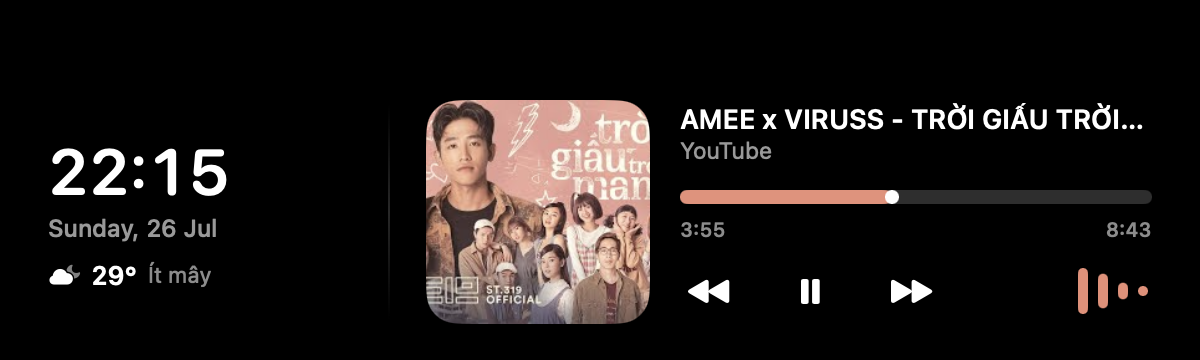
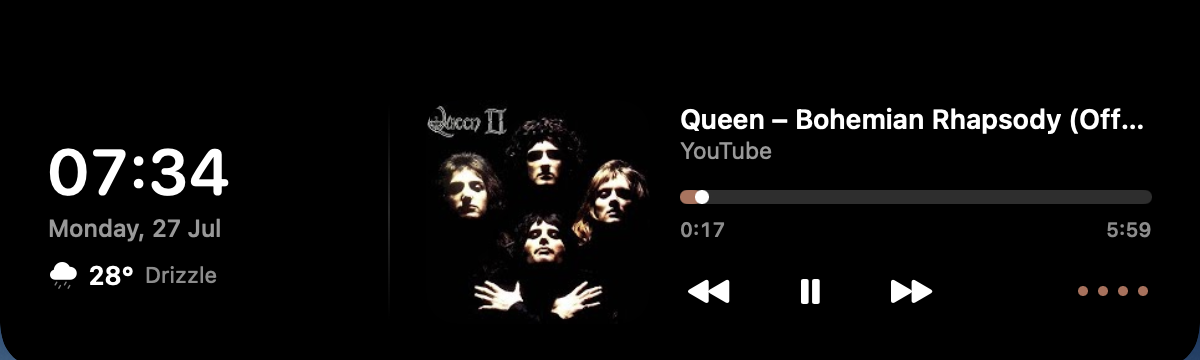
Translate app UI strings and README to English
Menu bar items, weather conditions, shelf context menu, empty states,
and the Info.plist permission descriptions were all Vietnamese; the
app now reads in English throughout. README rewritten to match.

diff --git a/Sources/NotchMVP/NotchRootView.swift b/Sources/NotchMVP/NotchRootView.swift
@@ -150,7 +150,7 @@ struct NotchRootView: View {
             RoundedRectangle(cornerRadius: 14, style: .continuous)
                 .strokeBorder(Color.white.opacity(0.55), style: StrokeStyle(lineWidth: 1.5, dash: [5, 4]))
                 .overlay(
-                    Text(state.shelfItems.isEmpty ? "Thả file để lưu tạm" : "Thêm vào shelf")
+                    Text(state.shelfItems.isEmpty ? "Drop files to hold onto" : "Add to shelf")
                         .font(.system(size: 12, weight: .medium))
                         .foregroundStyle(.white.opacity(0.85))
                 )
@@ -290,9 +290,9 @@ struct BlockerNotice: View {
     private var message: String {
         switch blocker {
         case .browserJavaScriptOff(let app):
-            return "Bật \(app) → View → Developer → Allow JavaScript from Apple Events để dùng nút điều khiển"
+            return "Enable \(app) → View → Developer → Allow JavaScript from Apple Events to use the controls"
         case .automationDenied(let app):
-            return "Cấp quyền điều khiển \(app) trong System Settings → Privacy & Security → Automation"
+            return "Grant \(app) permission in System Settings → Privacy & Security → Automation"
         }
     }
 
@@ -557,24 +557,24 @@ struct ShelfChip: View {
         .onDrag { NSItemProvider(contentsOf: item.url) ?? NSItemProvider() }
         .onTapGesture { PreviewWindow.shared.show(item.url) }
         .contextMenu {
-            Button("Xem trước") { PreviewWindow.shared.show(item.url) }
-            Button("Hiện trong Finder") {
+            Button("Quick Look") { PreviewWindow.shared.show(item.url) }
+            Button("Show in Finder") {
                 NSWorkspace.shared.activateFileViewerSelecting([item.url])
             }
             Divider()
-            Button("Sao chép file") {
+            Button("Copy File") {
                 NSPasteboard.general.clearContents()
                 NSPasteboard.general.writeObjects([item.url as NSURL])
             }
-            Button("Sao chép đường dẫn") {
+            Button("Copy Path") {
                 NSPasteboard.general.clearContents()
                 NSPasteboard.general.setString(item.url.path, forType: .string)
             }
             Divider()
-            Button("Bỏ khỏi shelf") { onRemove() }
+            Button("Remove from Shelf") { onRemove() }
         }
         .handCursor()
-        .help("\(item.url.path)\n\nBấm để xem trước · kéo ra để dùng")
+        .help("\(item.url.path)\n\nClick to preview · drag out to use")
     }
 }
 
@@ -606,7 +606,7 @@ private struct ClearShelfButton: View {
         .handCursor()
         .onHover { hovering = $0 }
         .animation(.smooth(duration: 0.18), value: hovering)
-        .help("Xoá hết")
+        .help("Clear all")
     }
 }
 
@@ -627,7 +627,7 @@ private struct ChipRemoveButton: View {
         .handCursor()
         .onHover { hovering = $0 }
         .animation(.smooth(duration: 0.15), value: hovering)
-        .help("Bỏ khỏi shelf")
+        .help("Remove from shelf")
     }
 }
 
@@ -744,7 +744,7 @@ struct MediaWidget: View {
 
             VStack(alignment: .leading, spacing: 9) {
                 if np.title.isEmpty {
-                    Text("Không có nhạc đang phát")
+                    Text("Nothing playing")
                         .font(.system(size: 13))
                         .foregroundStyle(.white.opacity(0.5))
                         .frame(maxWidth: .infinity, alignment: .leading)

diff --git a/Sources/NotchMVP/main.swift b/Sources/NotchMVP/main.swift
@@ -29,17 +29,17 @@ final class AppDelegate: NSObject, NSApplicationDelegate, NSMenuDelegate {
         menu.addItem(NSMenuItem(title: "NotchMVP", action: nil, keyEquivalent: ""))
         menu.addItem(.separator())
 
-        let login = NSMenuItem(title: "Mở cùng macOS",
+        let login = NSMenuItem(title: "Open at Login",
                                action: #selector(toggleLaunchAtLogin),
                                keyEquivalent: "")
         menu.addItem(login)
         launchAtLoginItem = login
 
-        menu.addItem(NSMenuItem(title: "Mở file cài đặt", action: #selector(openSettings), keyEquivalent: ","))
-        menu.addItem(NSMenuItem(title: "Tải lại cài đặt", action: #selector(reloadSettings), keyEquivalent: "l"))
+        menu.addItem(NSMenuItem(title: "Open Settings File", action: #selector(openSettings), keyEquivalent: ","))
+        menu.addItem(NSMenuItem(title: "Reload Settings", action: #selector(reloadSettings), keyEquivalent: "l"))
         menu.addItem(.separator())
-        menu.addItem(NSMenuItem(title: "Đặt lại vị trí notch", action: #selector(reposition), keyEquivalent: "r"))
-        menu.addItem(NSMenuItem(title: "Thoát", action: #selector(quit), keyEquivalent: "q"))
+        menu.addItem(NSMenuItem(title: "Reset Notch Position", action: #selector(reposition), keyEquivalent: "r"))
+        menu.addItem(NSMenuItem(title: "Quit", action: #selector(quit), keyEquivalent: "q"))
         for i in menu.items { i.target = self }
         item.menu = menu
         statusItem = item

diff --git a/Sources/NotchMVP/Shelf.swift b/Sources/NotchMVP/Shelf.swift
@@ -45,7 +45,7 @@ enum ShelfScratch {
             .prefix(28)
             .replacingOccurrences(of: "/", with: "-")
             .replacingOccurrences(of: ":", with: "-")
-        let name = safe.isEmpty ? "Ghi chú \(stamp)" : "\(safe).txt"
+        let name = safe.isEmpty ? "Note \(stamp)" : "\(safe).txt"
         let url = folder.appendingPathComponent(name.hasSuffix(".txt") ? name : name + ".txt")
         do {
             try trimmed.write(to: url, atomically: true, encoding: .utf8)
@@ -64,7 +64,7 @@ enum ShelfScratch {
             notchDebug("shelf: dropped image wasn't decodable")
             return nil
         }
-        let url = folder.appendingPathComponent("Ảnh \(stamp).png")
+        let url = folder.appendingPathComponent("Image \(stamp).png")
         do {
             try png.write(to: url)
             return url
@@ -76,7 +76,7 @@ enum ShelfScratch {
 }
 
 // Deliberately in memory only: this is a temporary staging area, and quietly
-// keeping a list of the user's files across launches isn't what "tạm" means.
+// keeping a list of the user's files across launches isn't what "temporary" means.
 extension NotchState {
     func addToShelf(_ urls: [URL]) {
         let known = Set(shelfItems.map(\.url))

diff --git a/Sources/NotchMVP/Weather.swift b/Sources/NotchMVP/Weather.swift
@@ -24,17 +24,17 @@ struct WeatherNow: Equatable {
 
     var summary: String {
         switch code {
-        case 0:         return "Trời quang"
-        case 1, 2:      return "Ít mây"
-        case 3:         return "Nhiều mây"
-        case 45, 48:    return "Sương mù"
-        case 51...57:   return "Mưa phùn"
-        case 61...65:   return "Mưa"
-        case 66, 67:    return "Mưa băng"
-        case 71...77:   return "Tuyết"
-        case 80...82:   return "Mưa rào"
-        case 85, 86:    return "Tuyết rơi"
-        case 95...99:   return "Dông"
+        case 0:         return "Clear"
+        case 1, 2:      return "Partly cloudy"
+        case 3:         return "Cloudy"
+        case 45, 48:    return "Foggy"
+        case 51...57:   return "Drizzle"
+        case 61...65:   return "Rain"
+        case 66, 67:    return "Freezing rain"
+        case 71...77:   return "Snow"
+        case 80...82:   return "Rain showers"
+        case 85, 86:    return "Snow showers"
+        case 95...99:   return "Thunderstorm"
         default:        return ""
         }
     }

diff --git a/Sources/NotchMVP/MediaController.swift b/Sources/NotchMVP/MediaController.swift
@@ -1031,7 +1031,7 @@ final class MediaController: ObservableObject {
             // -1743 == user hasn't granted Automation permission yet.
             if let code = error[NSAppleScript.errorNumber] as? Int, code == -1743 {
                 notchDebug("automation denied (-1743)")
-                let app = nowPlaying.app.isEmpty ? "trình phát" : nowPlaying.app
+                let app = nowPlaying.app.isEmpty ? "the player" : nowPlaying.app
                 DispatchQueue.main.async { self.blocker = .automationDenied(app) }
             }
             return nil

diff --git a/README.md b/README.md
@@ -1,43 +1,43 @@
 # NotchMVP
 
-Một tiện ích nhỏ cho macOS, biến notch (tai thỏ) trên MacBook thành nơi hiển thị nhạc đang phát, đồng hồ/thời tiết và một "kệ" để tạm file — lấy cảm hứng từ [NotchNook](https://github.com/aleksey-nekrasov/NotchNook).
+A small macOS utility that turns your MacBook's notch into a home for now-playing media, a clock/weather widget, and a temporary shelf for files — inspired by [NotchNook](https://github.com/aleksey-nekrasov/NotchNook).
 
-Ứng dụng chạy nền, không hiện icon trên Dock, chỉ có một biểu tượng `◗` nhỏ trên thanh menu bar.
+The app runs in the background with no Dock icon, just a small `◗` icon in the menu bar.
 
-![Bảng điều khiển mở rộng](docs/panel.png)
+![Expanded panel](docs/panel.png)
 
-Khi có nhạc mới phát hoặc đổi bài, một dải nhỏ hiện ra hai bên notch trong vài giây:
+When new music starts or the track changes, a small pill appears on either side of the notch for a few seconds:
 
-![Dạng mini](docs/mini.png)
+![Mini pill](docs/mini.png)
 
-## Tính năng
+## Features
 
-- **Điều khiển nhạc** — nhận diện và điều khiển phát/dừng/chuyển bài từ Apple Music, Spotify, VLC, QuickTime và các trang nghe nhạc/video phổ biến đang mở trong trình duyệt (YouTube, SoundCloud, v.v.)
-- **Dải mini** — khi nhạc bắt đầu phát hoặc đổi bài, ảnh bìa và waveform hiện ra ngay hai bên notch, tự ẩn sau vài giây
-- **Bảng mở rộng** — di chuột vào notch để xem đồng hồ, thời tiết hiện tại, ảnh bìa lớn, tên bài hát, thanh tua và nút điều khiển; click vào ảnh bìa để mở tab/app đang phát
-- **Waveform phản hồi âm thanh thực** — không phải hiệu ứng giả, lấy trực tiếp từ tín hiệu đang phát
-- **Kệ file (Shelf)** — kéo file, ảnh hoặc đoạn văn bản thả vào notch để tạm giữ; kéo ra để dùng lại, click để xem trước (Quick Look), chuột phải để có thêm tùy chọn
-- **Phím tắt toàn cục** — `⌥ Option + Space` để bật/tắt bảng mở rộng bất cứ đâu
-- **Khởi động cùng macOS** — bật/tắt ngay trong menu `◗`
-- **Cấu hình qua file JSON** — mọi con số (thời gian chờ, kích thước, phím tắt...) đều chỉnh được mà không cần build lại
+- **Media controls** — detects and controls play/pause/skip from Apple Music, Spotify, VLC, QuickTime, and popular music/video sites open in your browser (YouTube, SoundCloud, etc.)
+- **Mini pill** — cover art and a waveform appear right beside the notch when playback starts or the track changes, then fade away on their own
+- **Expanded panel** — hover the notch to see the clock, current weather, full-size artwork, track title, scrub bar, and transport controls; click the artwork to jump to the tab/app that's playing
+- **Real audio-reactive waveform** — not a canned animation, it's driven by the actual playing audio
+- **File shelf** — drag files, images, or text snippets onto the notch to hold onto them; drag them back out to use, click for a Quick Look preview, right-click for more options
+- **Global hotkey** — `⌥ Option + Space` toggles the expanded panel from anywhere
+- **Launch at login** — toggle right from the `◗` menu
+- **JSON-based configuration** — every tunable (timeouts, sizes, hotkey) is editable without rebuilding
 
-## Cài đặt
+## Installation
 
-### Cách 1 — Tải bản build sẵn (khuyên dùng)
+### Option 1 — Download a prebuilt release (recommended)
 
-1. Vào mục [Releases](../../releases) của repo này, tải file `NotchMVP.zip` mới nhất
-2. Giải nén, kéo `NotchMVP.app` vào thư mục **Applications**
-3. Vì app chỉ được ký ad-hoc (không phải tài khoản Apple Developer trả phí), lần đầu mở macOS sẽ chặn. Cách mở:
-   - Chuột phải vào `NotchMVP.app` → **Open** → xác nhận **Open** lần nữa, **hoặc**
-   - Vào **System Settings → Privacy & Security**, cuộn xuống thấy dòng cảnh báo về NotchMVP, bấm **Open Anyway**
-4. Lần đầu chạy, macOS sẽ hỏi quyền:
-   - **Automation** (điều khiển Music/Spotify/trình duyệt) — bắt buộc để điều khiển nhạc
-   - **Location** (vị trí) — chỉ để hiển thị thời tiết, có thể từ chối nếu không cần
-   - Nếu muốn điều khiển nhạc từ Chrome/tab trình duyệt: mở Chrome → **View → Developer → Allow JavaScript from Apple Events**
+1. Go to this repo's [Releases](../../releases) page and download the latest `NotchMVP.zip`
+2. Unzip it and drag `NotchMVP.app` into your **Applications** folder
+3. Since the app is only ad-hoc signed (no paid Apple Developer account), macOS will block it the first time. To open it:
+   - Right-click `NotchMVP.app` → **Open** → confirm **Open** again, **or**
+   - Go to **System Settings → Privacy & Security**, scroll down to the warning about NotchMVP, and click **Open Anyway**
+4. On first launch, macOS will ask for a couple of permissions:
+   - **Automation** (to control Music/Spotify/your browser) — required for media control
+   - **Location** — only used to show the current weather; you can deny it if you don't want that
+   - To control playback from a Chrome tab: open Chrome → **View → Developer → Allow JavaScript from Apple Events**
 
-### Cách 2 — Build từ source
+### Option 2 — Build from source
 
-Yêu cầu: macOS 14+, Xcode hoặc Command Line Tools đã cài.
+Requires macOS 14+ and Xcode or the Command Line Tools.
 
 ```bash
 git clone https://github.com/willhope3101/NotchMVP.git
@@ -45,15 +45,15 @@ cd NotchMVP
 ./install.sh
 ```
 
-`install.sh` sẽ build bản release, đóng gói thành `.app`, dừng mọi bản đang chạy, cài vào `/Applications`, trỏ lại mục khởi động cùng macOS, và mở app.
+`install.sh` builds a release binary, wraps it into a `.app`, stops any running copy, installs it to `/Applications`, repoints the login item, and launches it.
 
-## Cấu hình
+## Configuration
 
-Từ menu `◗` trên menu bar → **Mở file cài đặt** để sửa `~/Library/Application Support/NotchMVP/settings.json`, sau đó chọn **Tải lại cài đặt** để áp dụng ngay mà không cần khởi động lại app.
+From the `◗` menu bar item → **Open Settings File** to edit `~/Library/Application Support/NotchMVP/settings.json`, then choose **Reload Settings** to apply changes immediately without restarting the app.
 
-## Gỡ cài đặt
+## Uninstalling
 
-1. Menu `◗` → **Thoát**
-2. Xóa `/Applications/NotchMVP.app`
-3. Xóa thư mục cấu hình: `~/Library/Application Support/NotchMVP`
-4. Nếu đã bật khởi động cùng macOS: xóa file LaunchAgent tương ứng trong `~/Library/LaunchAgents`
+1. `◗` menu → **Quit**
+2. Delete `/Applications/NotchMVP.app`
+3. Delete the config folder: `~/Library/Application Support/NotchMVP`
+4. If you enabled launch at login: remove the matching LaunchAgent file from `~/Library/LaunchAgents`
